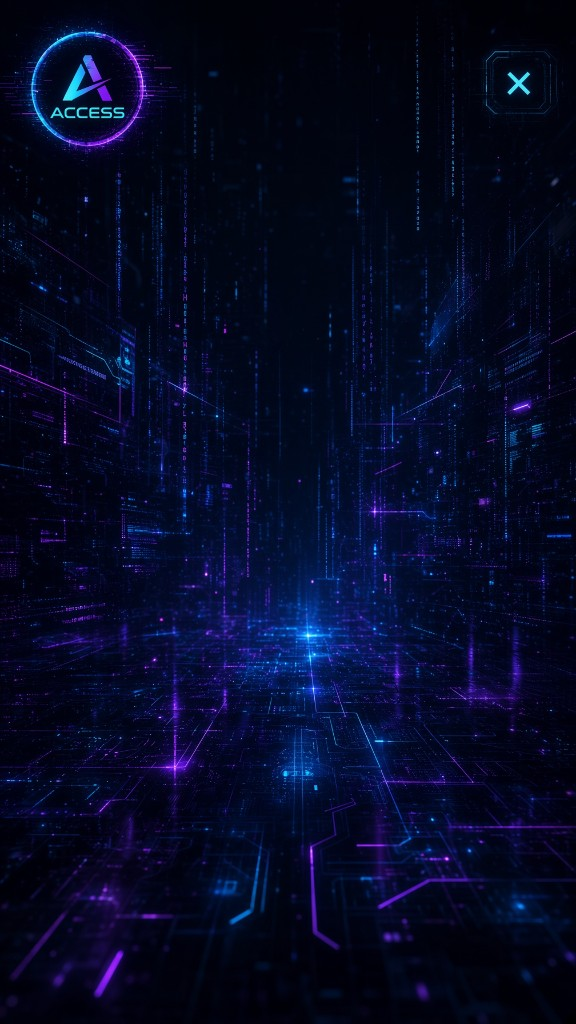
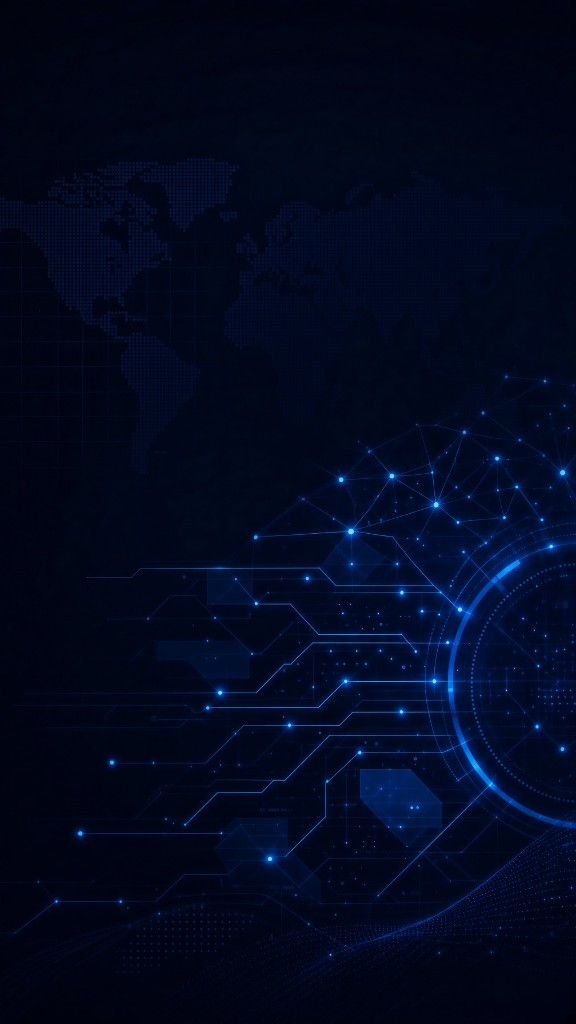
Swap the sidebar backdrop to the new global-circuit artwork.

diff --git a/src/app/layout/shell.component.scss b/src/app/layout/shell.component.scss
@@ -19,10 +19,10 @@
   width: 260px;
   background-color: #050810;
   background-image:
-    linear-gradient(180deg, rgba(5, 8, 16, 0.78) 0%, rgba(5, 8, 16, 0.38) 28%, rgba(5, 8, 16, 0.22) 58%, rgba(5, 8, 16, 0.55) 100%),
+    linear-gradient(180deg, rgba(5, 8, 16, 0.55) 0%, rgba(5, 8, 16, 0.28) 32%, rgba(5, 8, 16, 0.18) 62%, rgba(5, 8, 16, 0.42) 100%),
     url('/assets/nav-access-backdrop.png');
   background-size: cover, cover;
-  background-position: center, 38% 22%;
+  background-position: center, 72% 42%;
   background-repeat: no-repeat;
   border-right: 1px solid rgba(0, 212, 255, 0.28);
   box-shadow:
@@ -60,9 +60,9 @@
   top: 0;
   left: 0;
   right: 0;
-  height: 118px;
+  height: 96px;
   pointer-events: none;
-  background: linear-gradient(180deg, rgba(5, 8, 16, 0.88) 0%, rgba(5, 8, 16, 0.4) 72%, transparent 100%);
+  background: linear-gradient(180deg, rgba(5, 8, 16, 0.62) 0%, rgba(5, 8, 16, 0.22) 70%, transparent 100%);
   z-index: 0;
 }
 
